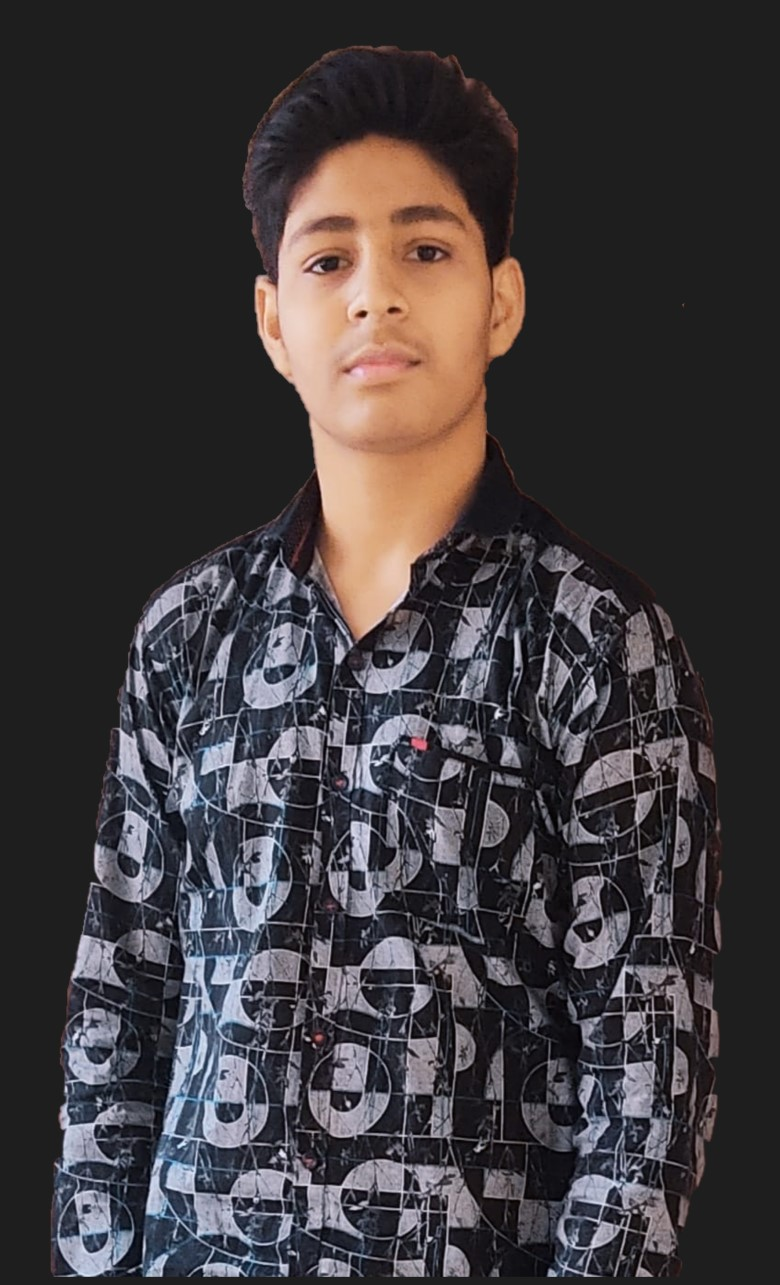
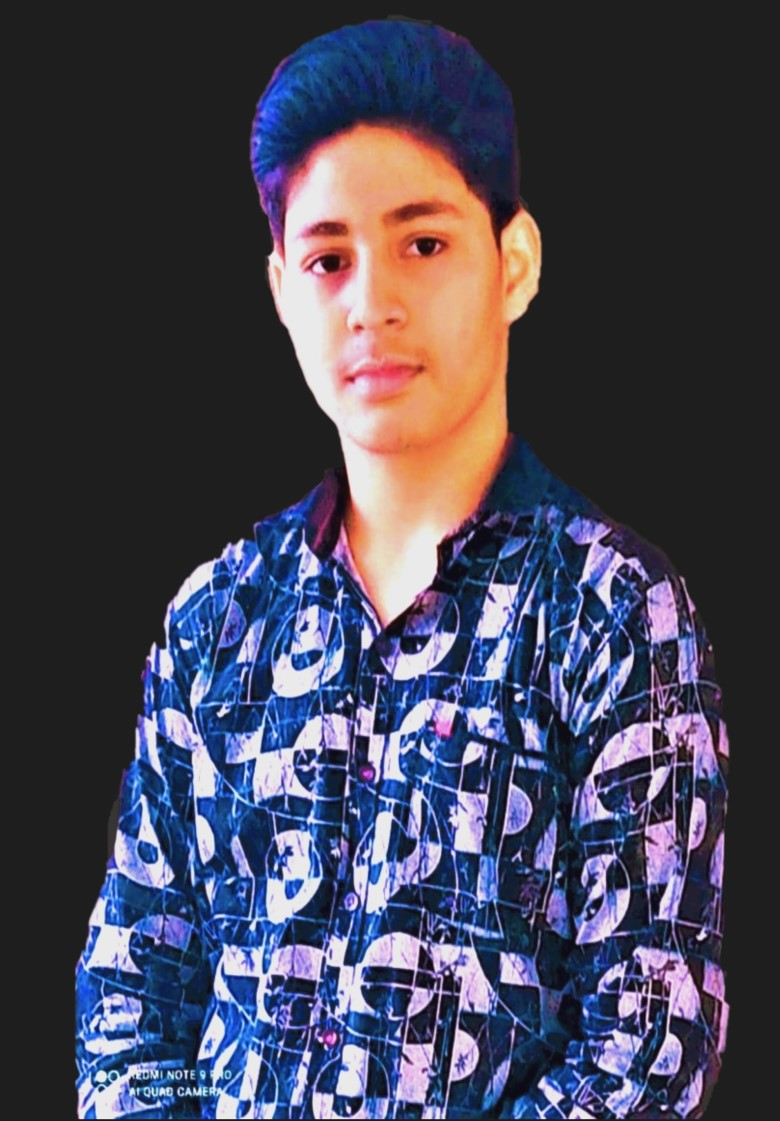
Updated

diff --git a/files/style.css b/files/style.css
@@ -171,11 +171,7 @@ body {
 .job {
     opacity: 0.8;
 }
-.button{
-    min-width: 300px;
-    display: flex;
-    justify-content: center;
-}
+
 .button a {
     padding: 10px 15px;
     color: #10bea4;
@@ -410,6 +406,11 @@ footer{
     .container  i{
         font-size: large;
         font-weight: bold;
+    }
+    .button{
+        min-width: 300px;
+        display: flex;
+        justify-content: center;
     }
 
 }

diff --git a/index.html b/index.html
@@ -52,7 +52,7 @@
                 </div>
                 <br><br><br>
                 <div class="img">
-                    <img loading="lazy" src="/images/Untitled.jpg" alt="Utkarsh">
+                    <img loading="lazy" src="/images/me.jpg" alt="Utkarsh">
                 </div>
             </div>
             
